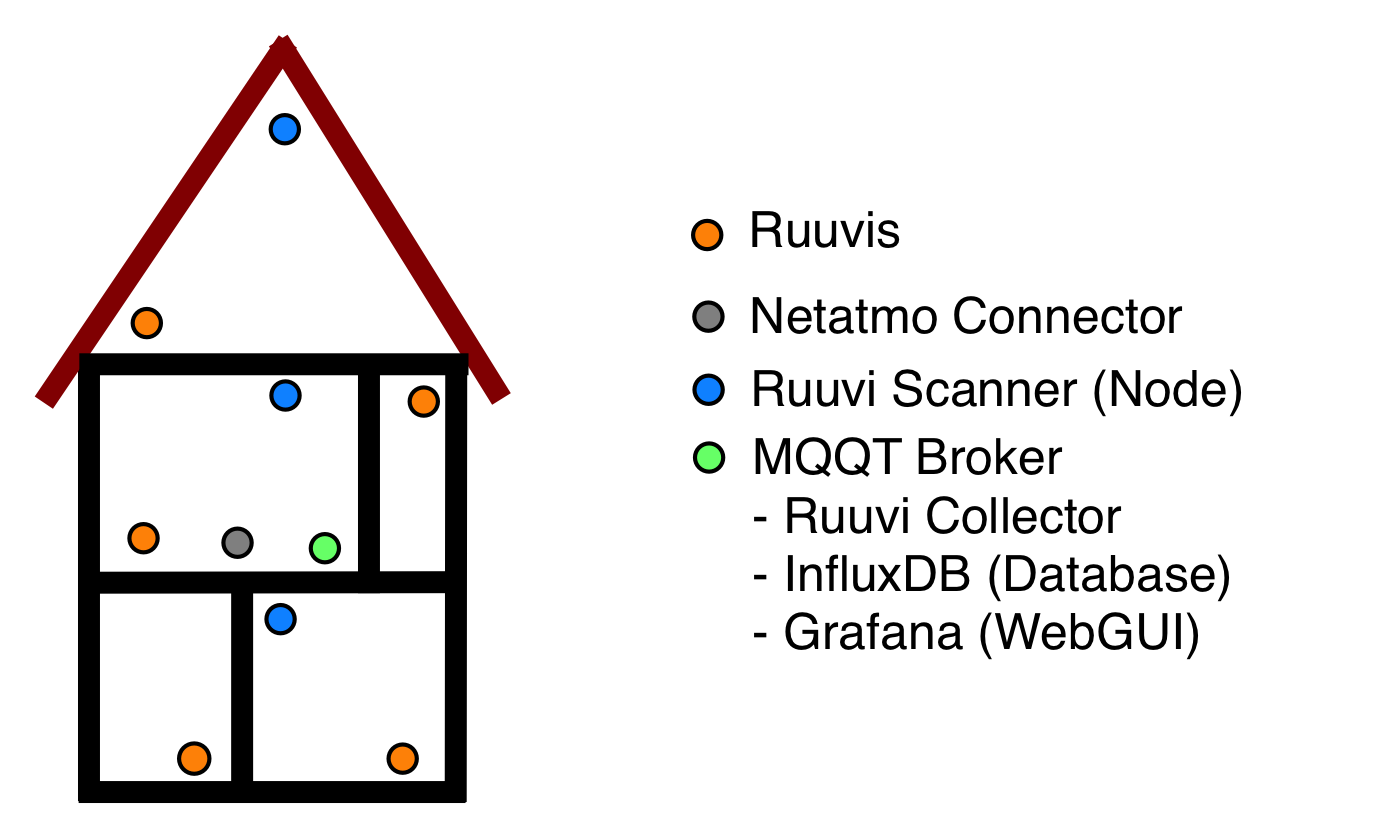
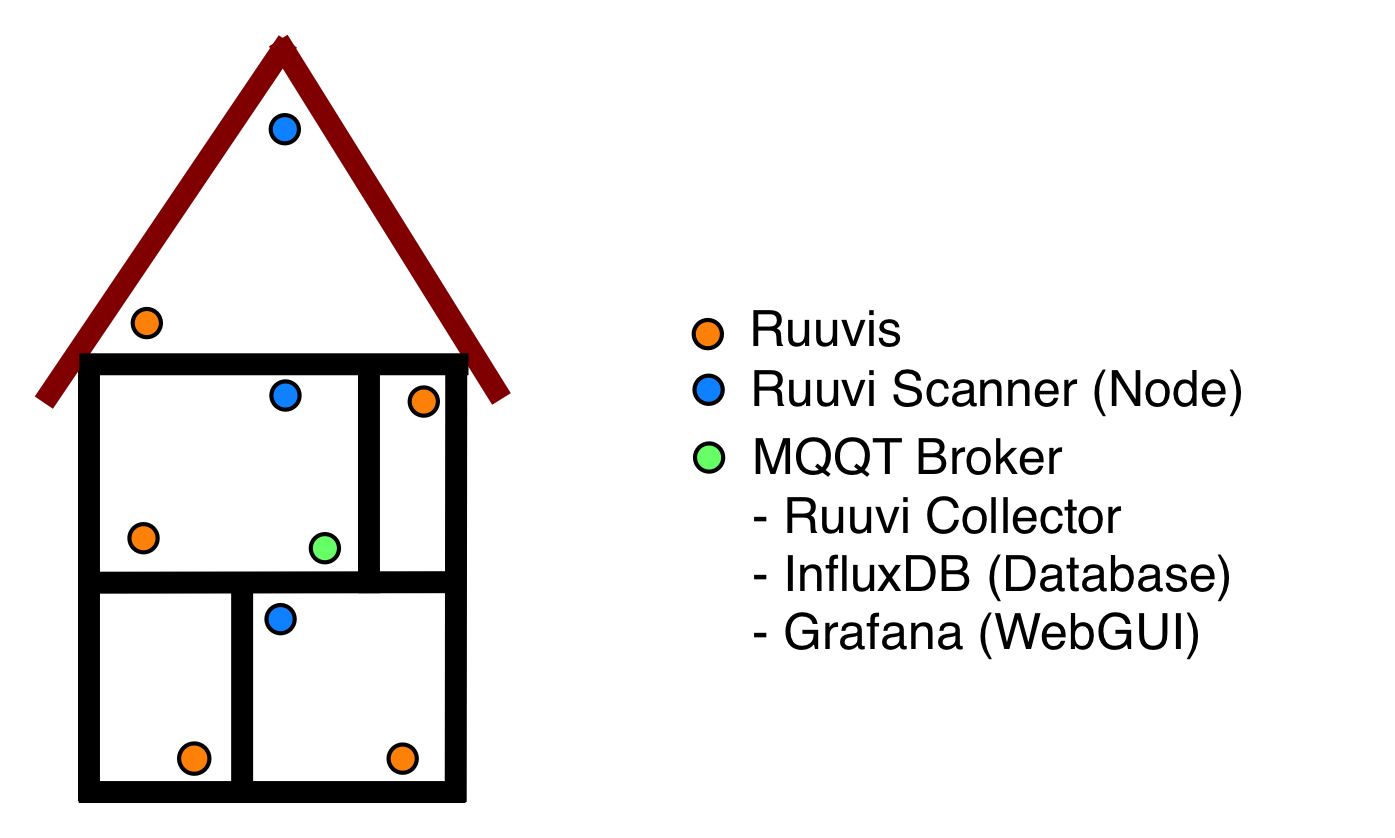
Remove the netatmo connector since there were already working solutions which enable the direct data download form netatmo cloud into influxDB vi python.

Changed region(s): [[0.4932, 0.3413, 0.8631, 0.4344], [0.4932, 0.2482, 0.6473, 0.3103], [0.1541, 0.6205, 0.1849, 0.6826]]

diff --git a/README.md b/README.md
@@ -20,7 +20,6 @@ The following pictures show the setup:
 
 ## Outlook
 This project is not finished, next steps are:
-1. As shown in the pictures above a connector for netatmo data has to be developed. Here, I want to add extra code to a copy of the project [netatmo-display](https://github.com/bkoopman/netatmo-display) to reformat the data so that it looks like the raw data telegram of a ruuvi beacon and send everything to the existing setup via MQTT. 
-2. Use the sensors of the PySense Board and send MQTT messages in the same way as for the netatmo data in 1. Thus, the sensor data has to be reformatted into the ruvvi raw data BLE advertising telegram format. 
-3. Modify the Ruuvi firmware to only transmit telegrams every 10 seconds instead of every second. This should enable longer battery lifetime of the beacons.
+1. Use the sensors of the PySense Board and send MQTT messages in the same way as for the ruuvi data. Thus, the sensor data has to be reformatted into the ruvvi raw data BLE advertising telegram format. 
+2. Modify the Ruuvi firmware to only transmit telegrams every 10 seconds instead of every second. This should enable longer battery lifetime of the beacons.
 
